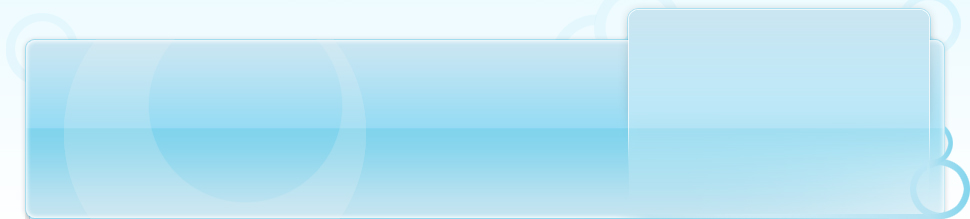
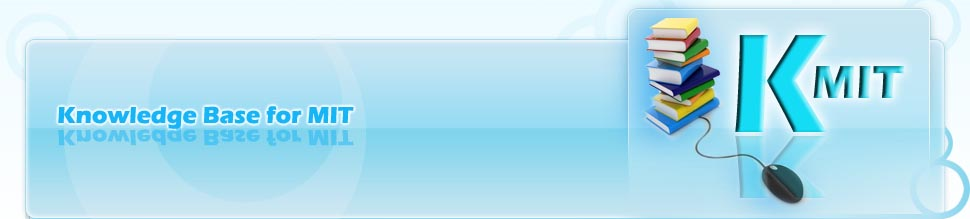
Modified default template header image

diff --git a/trunk/templates/siteground-j15-50/index.php b/trunk/templates/siteground-j15-50/index.php
@@ -18,10 +18,6 @@ JPlugin::loadLanguage( 'tpl_SG1' );
 				<div id="pathway">
 					<jdoc:include type="module" name="breadcrumbs" />
 				</div>
-				
-				<div id="logo">
-					<a href="index.php"><?php echo $mainframe->getCfg('sitename') ;?></a>
-				</div>
 			</div>
 			<div id="newsflash">
 				<jdoc:include type="modules" name="top" />
